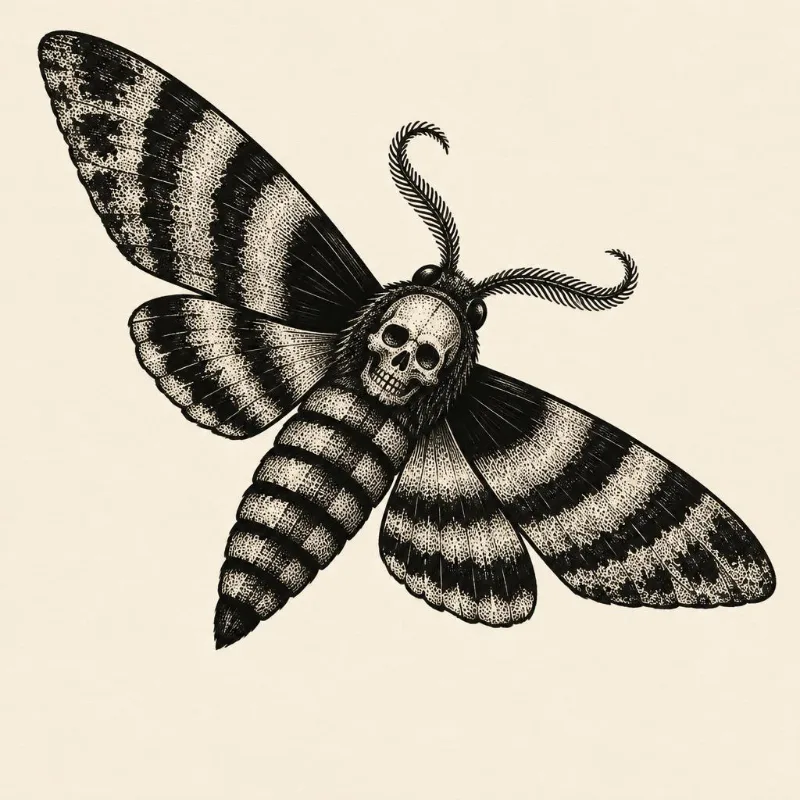
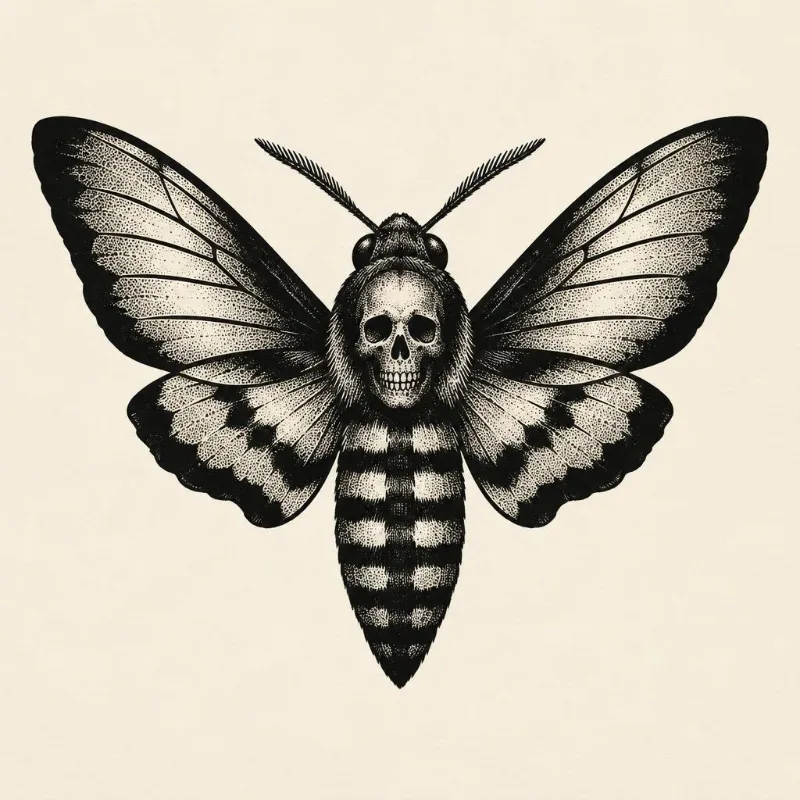
Landing: proceso de polilla con la de Marc como referencia (alas finas), elegido el concepto y en vertical en el antebrazo

diff --git a/es/index.html b/es/index.html
@@ -309,7 +309,7 @@ footer .brand img { width: 3rem; height: 3rem; }
   <blockquote>“Una polilla con una calavera.” Te pasas la tarde bocetando, tres versiones por DM… <span>y ninguna hora cobrada.</span></blockquote>
   <p style="color: var(--dim); max-width: 36rem">Inkdraft se encarga de la parte que no se paga: la idea y el primer boceto. El tiempo que ahorras vuelve a la máquina.</p>
   </div>
-  <div class="dm" role="img" aria-label="Conversación por mensaje directo: el tatuador manda tres bocetos, luego un cuarto, y la clienta sigue sin decidirse"><div class="dm-head"><span class="dm-av">L</span><div>Laura<small>Mensaje directo</small></div></div><div class="dm-rounds"><div class="r"><span class="t">Martes · 18:02</span><div class="b in">¡Hola! Quiero una polilla con una calavera, en el antebrazo.</div><div class="b out sk"><span class="sk-t">Te paso tres opciones:</span><div class="sk-row"><figure><img src="/img/pol-concepto-2.webp" alt="" width="480" height="480"><figcaption>v1</figcaption></figure><figure><img src="/img/pol-concepto-3.webp" alt="" width="480" height="480"><figcaption>v2</figcaption></figure><figure><img src="/img/pol-concepto-4.webp" alt="" width="480" height="480"><figcaption>v3</figcaption></figure></div></div><div class="b in">Me gusta la v2… ¿pero y si la calavera estuviera en el cuerpo de la polilla?</div></div><div class="r"><span class="t">Jueves · 22:15</span><div class="b out sk sk1"><span class="sk-t">¿Así?</span><figure><img src="/img/pol-concepto-1.webp" alt="" width="480" height="480"><figcaption>v4</figcaption></figure></div><div class="b in">Mmm, casi. Lo pienso y te digo.</div><span class="dm-seen">Visto · 23:47</span></div></div></div>
+  <div class="dm" role="img" aria-label="Conversación por mensaje directo: el tatuador manda tres bocetos, luego un cuarto, y la clienta sigue sin decidirse"><div class="dm-head"><span class="dm-av">L</span><div>Laura<small>Mensaje directo</small></div></div><div class="dm-rounds"><div class="r"><span class="t">Martes · 18:02</span><div class="b in">¡Hola! Quiero una polilla con una calavera, en el antebrazo.</div><div class="b out sk"><span class="sk-t">Te paso tres opciones:</span><div class="sk-row"><figure><img src="/img/pol-concepto-2.webp" alt="" width="480" height="480"><figcaption>v1</figcaption></figure><figure><img src="/img/pol-concepto-3.webp" alt="" width="480" height="480"><figcaption>v2</figcaption></figure><figure><img src="/img/pol-concepto-4.webp" alt="" width="480" height="480"><figcaption>v3</figcaption></figure></div></div><div class="b in">Me gusta la v2… ¿pero sin el sol, solo la polilla?</div></div><div class="r"><span class="t">Jueves · 22:15</span><div class="b out sk sk1"><span class="sk-t">¿Así?</span><figure><img src="/img/pol-concepto-1.webp" alt="" width="480" height="480"><figcaption>v4</figcaption></figure></div><div class="b in">Mmm, casi. Lo pienso y te digo.</div><span class="dm-seen">Visto · 23:47</span></div></div></div>
 </div></section>
 
 <section><div class="wrap">
@@ -318,9 +318,9 @@ footer .brand img { width: 3rem; height: 3rem; }
     <li><span class="n">1</span><div class="st"><span class="label">Paso 1 · Encargo</span><h3>Cuéntale el encargo</h3><p>Escríbelo como te lo dice el cliente: tema, zona y tamaño. Si trae fotos de referencia, súbelas: Inkdraft las lee como gusto, nunca las copia.</p></div>
       <div class="plate"><div class="ticket"><p class="q">“polilla con calavera”</p><dl><dt>Zona</dt><dd>Antebrazo</dd><dt>Tamaño</dt><dd>15 cm</dd><dt>Estilo</dt><dd>Blackwork</dd></dl></div><small>Tal cual lo escribió el tatuador.</small></div></li>
     <li><span class="n">2</span><div class="st"><span class="label">Paso 2 · Conceptos</span><h3>Elige viendo</h3><p>Cuatro conceptos distintos, cada uno con su dibujo. Eliges con los ojos, no leyendo descripciones. ¿Ninguno te convence? Pide otra tanda.</p></div>
-      <div class="plate"><div class="g g4"><figure class="pick"><div class="pp"><img src="/img/pol-concepto-1.webp" alt="Esfinge calavera con las alas abiertas y una calavera en el tórax" width="480" height="480" loading="lazy"></div><figcaption>Polilla calavera</figcaption></figure><figure><div class="pp"><img src="/img/pol-concepto-2.webp" alt="Calavera con una rosa que sale de la órbita y una polilla en el pómulo" width="480" height="480" loading="lazy"></div><figcaption>Calavera, rosa y polilla</figcaption></figure><figure><div class="pp"><img src="/img/pol-concepto-3.webp" alt="Polilla de alas negras con una calavera en negativo" width="480" height="480" loading="lazy"></div><figcaption>Calavera en negativo</figcaption></figure><figure><div class="pp"><img src="/img/pol-concepto-4.webp" alt="Calavera abierta como un capullo de la que sale una polilla" width="480" height="480" loading="lazy"></div><figcaption>Calavera crisálida</figcaption></figure></div></div></li>
+      <div class="plate"><div class="g g4"><figure class="pick"><div class="pp"><img src="/img/pol-concepto-1.webp" alt="Esfinge de la calavera de frente, con la calavera en el tórax y las alas con borde negro" width="480" height="480" loading="lazy"></div><figcaption>Esfinge de la calavera</figcaption></figure><figure><div class="pp"><img src="/img/pol-concepto-2.webp" alt="La esfinge posada sobre una vela encendida que gotea" width="480" height="480" loading="lazy"></div><figcaption>Polilla y vela</figcaption></figure><figure><div class="pp"><img src="/img/pol-concepto-3.webp" alt="La esfinge sobre un eclipse negro con corona de rayos" width="480" height="480" loading="lazy"></div><figcaption>Polilla de luna eclipse</figcaption></figure><figure><div class="pp"><img src="/img/pol-concepto-4.webp" alt="La esfinge con las alas hechas de cristales de cuarzo" width="480" height="480" loading="lazy"></div><figcaption>Alas de cristal</figcaption></figure></div></div></li>
     <li><span class="n">3</span><div class="st"><span class="label">Paso 3 · Variaciones</span><h3>Afínalo</h3><p>Tres variaciones del elegido: cercana, media y atrevida. Para corregir un detalle o probar otro ángulo.</p></div>
-      <div class="plate"><div class="g g3"><figure><div class="pp"><img src="/img/pol-var-cercana.webp" alt="Variación cercana: la esfinge algo girada, con las alas abiertas" width="480" height="480" loading="lazy"></div><figcaption>Cercana</figcaption></figure><figure class="pick"><div class="pp"><img src="/img/pol-var-media.webp" alt="Variación media: la esfinge en diagonal, siguiendo el antebrazo" width="480" height="480" loading="lazy"></div><figcaption>Media</figcaption></figure><figure><div class="pp"><img src="/img/pol-var-atrevida.webp" alt="Variación atrevida: la esfinge girada, con el abdomen curvado" width="480" height="480" loading="lazy"></div><figcaption>Atrevida</figcaption></figure></div></div></li>
+      <div class="plate"><div class="g g3"><figure><div class="pp"><img src="/img/pol-var-cercana.webp" alt="Variación cercana: la esfinge girada, con un ala más abierta" width="480" height="480" loading="lazy"></div><figcaption>Cercana</figcaption></figure><figure><div class="pp"><img src="/img/pol-var-media.webp" alt="Variación media: la esfinge en diagonal, con el abdomen curvado" width="480" height="480" loading="lazy"></div><figcaption>Media</figcaption></figure><figure><div class="pp"><img src="/img/pol-var-atrevida.webp" alt="Variación atrevida: la esfinge de perfil, en diagonal" width="480" height="480" loading="lazy"></div><figcaption>Atrevida</figcaption></figure></div></div></li>
     <li><span class="n">4</span><div class="st"><span class="label">Paso 4 · Stencil</span><h3>Llévate el stencil</h3><p>Línea limpia de un solo grosor, fiel al dibujo, a 2048 px. Ábrelo en Procreate y pon el sombreado a tu manera.</p></div>
       <div class="plate"><div class="g g2"><figure><div class="pp"><img src="/img/pol-diseno.webp" alt="El diseño elegido, sombreado" width="800" height="800" loading="lazy"></div><figcaption>Diseño</figcaption></figure><figure><div class="pp"><img src="/img/pol-stencil.webp" alt="Stencil de la polilla calavera: solo contornos, un grosor" width="800" height="800" loading="lazy"></div><figcaption>Stencil</figcaption></figure></div></div></li>
     <li><span class="n">5</span><div class="st"><span class="label">Paso 5 · En la piel</span><h3>Enséñaselo al cliente</h3><p>Sube una foto de la zona, coloca el diseño con los dedos e Inkdraft lo vuelve realista. El cliente lo ve antes de la cita.</p></div>

diff --git a/index.html b/index.html
@@ -314,7 +314,7 @@ footer .brand img { width: 3rem; height: 3rem; }
   <blockquote>“A moth with a skull.” You spend the afternoon sketching, three versions over DM… <span>and not one hour paid.</span></blockquote>
   <p style="color: var(--dim); max-width: 36rem">Inkdraft handles the part nobody pays for: the idea and the first sketch. The time you save goes back to the machine.</p>
   </div>
-  <div class="dm" role="img" aria-label="Direct message thread: the artist sends three sketches, then a fourth, and the client still can't decide"><div class="dm-head"><span class="dm-av">L</span><div>Laura<small>Direct message</small></div></div><div class="dm-rounds"><div class="r"><span class="t">Tuesday · 6:02 pm</span><div class="b in">Hi! I want a moth with a skull, on my forearm.</div><div class="b out sk"><span class="sk-t">Here are three options:</span><div class="sk-row"><figure><img src="/img/pol-concepto-2.webp" alt="" width="480" height="480"><figcaption>v1</figcaption></figure><figure><img src="/img/pol-concepto-3.webp" alt="" width="480" height="480"><figcaption>v2</figcaption></figure><figure><img src="/img/pol-concepto-4.webp" alt="" width="480" height="480"><figcaption>v3</figcaption></figure></div></div><div class="b in">I like v2… but what if the skull was on the moth’s body?</div></div><div class="r"><span class="t">Thursday · 10:15 pm</span><div class="b out sk sk1"><span class="sk-t">Like this?</span><figure><img src="/img/pol-concepto-1.webp" alt="" width="480" height="480"><figcaption>v4</figcaption></figure></div><div class="b in">Hmm, almost. Let me think about it.</div><span class="dm-seen">Seen · 11:47 pm</span></div></div></div>
+  <div class="dm" role="img" aria-label="Direct message thread: the artist sends three sketches, then a fourth, and the client still can't decide"><div class="dm-head"><span class="dm-av">L</span><div>Laura<small>Direct message</small></div></div><div class="dm-rounds"><div class="r"><span class="t">Tuesday · 6:02 pm</span><div class="b in">Hi! I want a moth with a skull, on my forearm.</div><div class="b out sk"><span class="sk-t">Here are three options:</span><div class="sk-row"><figure><img src="/img/pol-concepto-2.webp" alt="" width="480" height="480"><figcaption>v1</figcaption></figure><figure><img src="/img/pol-concepto-3.webp" alt="" width="480" height="480"><figcaption>v2</figcaption></figure><figure><img src="/img/pol-concepto-4.webp" alt="" width="480" height="480"><figcaption>v3</figcaption></figure></div></div><div class="b in">I like v2… but without the sun, just the moth?</div></div><div class="r"><span class="t">Thursday · 10:15 pm</span><div class="b out sk sk1"><span class="sk-t">Like this?</span><figure><img src="/img/pol-concepto-1.webp" alt="" width="480" height="480"><figcaption>v4</figcaption></figure></div><div class="b in">Hmm, almost. Let me think about it.</div><span class="dm-seen">Seen · 11:47 pm</span></div></div></div>
 </div></section>
 
 <section><div class="wrap">
@@ -323,9 +323,9 @@ footer .brand img { width: 3rem; height: 3rem; }
     <li><span class="n">1</span><div class="st"><span class="label">Step 1 · Brief</span><h3>Describe the request</h3><p>Write it the way your client said it: subject, placement and size. If they sent reference photos, add them: Inkdraft reads them as taste and never copies them.</p></div>
       <div class="plate"><div class="ticket"><p class="q">“moth with skull”</p><dl><dt>Placement</dt><dd>Forearm</dd><dt>Size</dt><dd>15 cm</dd><dt>Style</dt><dd>Blackwork</dd></dl></div><small>Typed in a hurry, just like a real brief.</small></div></li>
     <li><span class="n">2</span><div class="st"><span class="label">Step 2 · Concepts</span><h3>Pick by eye</h3><p>Four different concepts, each one drawn. You choose by looking, not by reading descriptions. None of them right? Ask for another round.</p></div>
-      <div class="plate"><div class="g g4"><figure class="pick"><div class="pp"><img src="/img/pol-concepto-1.webp" alt="Death's-head hawkmoth with open wings and a skull on its thorax" width="480" height="480" loading="lazy"></div><figcaption>Skull moth</figcaption></figure><figure><div class="pp"><img src="/img/pol-concepto-2.webp" alt="Skull with a rose growing from the eye socket and a moth on the cheekbone" width="480" height="480" loading="lazy"></div><figcaption>Skull, rose and moth</figcaption></figure><figure><div class="pp"><img src="/img/pol-concepto-3.webp" alt="Moth with solid black wings holding a skull in negative" width="480" height="480" loading="lazy"></div><figcaption>Negative skull</figcaption></figure><figure><div class="pp"><img src="/img/pol-concepto-4.webp" alt="Skull opened like a cocoon, with a moth coming out" width="480" height="480" loading="lazy"></div><figcaption>Chrysalis skull</figcaption></figure></div></div></li>
+      <div class="plate"><div class="g g4"><figure class="pick"><div class="pp"><img src="/img/pol-concepto-1.webp" alt="Death's-head hawkmoth seen from the front, a skull on its thorax and black-edged wings" width="480" height="480" loading="lazy"></div><figcaption>Death's-head hawkmoth</figcaption></figure><figure><div class="pp"><img src="/img/pol-concepto-2.webp" alt="The hawkmoth resting on a lit, dripping candle" width="480" height="480" loading="lazy"></div><figcaption>Moth and candle</figcaption></figure><figure><div class="pp"><img src="/img/pol-concepto-3.webp" alt="The hawkmoth over a black eclipse with a crown of rays" width="480" height="480" loading="lazy"></div><figcaption>Eclipse moth</figcaption></figure><figure><div class="pp"><img src="/img/pol-concepto-4.webp" alt="The hawkmoth with wings made of quartz crystals" width="480" height="480" loading="lazy"></div><figcaption>Crystal wings</figcaption></figure></div></div></li>
     <li><span class="n">3</span><div class="st"><span class="label">Step 3 · Variations</span><h3>Refine it</h3><p>Three variations of the one you picked: close, medium and bold. To fix a detail or try another angle.</p></div>
-      <div class="plate"><div class="g g3"><figure><div class="pp"><img src="/img/pol-var-cercana.webp" alt="Close variation: the hawkmoth slightly turned, wings open" width="480" height="480" loading="lazy"></div><figcaption>Close</figcaption></figure><figure class="pick"><div class="pp"><img src="/img/pol-var-media.webp" alt="Medium variation: the hawkmoth on a diagonal, following the forearm" width="480" height="480" loading="lazy"></div><figcaption>Medium</figcaption></figure><figure><div class="pp"><img src="/img/pol-var-atrevida.webp" alt="Bold variation: the hawkmoth turned, its abdomen curved" width="480" height="480" loading="lazy"></div><figcaption>Bold</figcaption></figure></div></div></li>
+      <div class="plate"><div class="g g3"><figure><div class="pp"><img src="/img/pol-var-cercana.webp" alt="Close variation: the hawkmoth turned, one wing more open" width="480" height="480" loading="lazy"></div><figcaption>Close</figcaption></figure><figure><div class="pp"><img src="/img/pol-var-media.webp" alt="Medium variation: the hawkmoth on a diagonal, its abdomen curved" width="480" height="480" loading="lazy"></div><figcaption>Medium</figcaption></figure><figure><div class="pp"><img src="/img/pol-var-atrevida.webp" alt="Bold variation: the hawkmoth in profile, on a diagonal" width="480" height="480" loading="lazy"></div><figcaption>Bold</figcaption></figure></div></div></li>
     <li><span class="n">4</span><div class="st"><span class="label">Step 4 · Stencil</span><h3>Take the stencil</h3><p>Clean, single-weight linework, true to the drawing, at 2048 px. Open it in Procreate and add the shading your way.</p></div>
       <div class="plate"><div class="g g2"><figure><div class="pp"><img src="/img/pol-diseno.webp" alt="The chosen design, shaded" width="800" height="800" loading="lazy"></div><figcaption>Design</figcaption></figure><figure><div class="pp"><img src="/img/pol-stencil.webp" alt="Stencil of the skull moth: outlines only, one line weight" width="800" height="800" loading="lazy"></div><figcaption>Stencil</figcaption></figure></div></div></li>
     <li><span class="n">5</span><div class="st"><span class="label">Step 5 · On skin</span><h3>Show your client</h3><p>Upload a photo of the placement, position the design with your fingers and Inkdraft makes it look real. Your client sees it before the appointment.</p></div>

diff --git a/CLAUDE.md b/CLAUDE.md
@@ -47,5 +47,5 @@ Una sola dirección pública: `hello@inkdraft.tattoo`. Los dos emails del formul
 - Imágenes generadas en producción con la cuenta de Marc (`/api/concepts`, `/api/references`, `/api/stencil`), sin retocar, pasadas a webp de 800 px. De reserva quedaron cabeza de tigre (Tradicional; su stencil perdía las rayas) y búho con joya (Neotradicional).
 - El formulario de fundador sigue con Blackwork / Fineline / Otro (ver arriba para añadir estilos).
 - Ejemplos elegidos por Marc de su biblioteca (23 oct): Blackwork `bw-1` polilla con calavera (antebrazo 15 cm) y `bw-2` corazón anatómico con bisturí (brazo 18 cm); Tradicional `trad-2` barco en medallón con ancla (brazo 15 cm). Stencils hechos con `/api/stencil`. `cri-*` borradas; las `esc-*` siguen en "Cómo funciona".
-- Cómo funciona y el problema (mensaje con Laura) cuentan un encargo hecho de punta a punta en la app (Marc, 23 oct): "polilla con calavera", antebrazo 15 cm, Blackwork. Se hicieron 3 tandas (como "Otra tanda") y se eligió como lo haría Marc: la primera tanda entera en `pol-concepto-1..4`, elegido el 1 ("Polilla calavera", esfinge con bandas); variaciones `pol-var-*`, elegida la media (en diagonal); `pol-diseno.webp` + `pol-stencil.webp` (stencil de la media) y `pol-piel.webp`: la media colocada grande y en diagonal sobre el antebrazo limpio original (Figma "Inkdraft · landing (antebrazo IA)", nodo 1:2) y pasada por `/api/skin`. En Laura, v1-v3 son los conceptos 2, 3 y 4, y v4 el 1. Una primera versión con una sola tanda quedó floja (concepto genérico y variación simplificada): para la landing, siempre varias tandas y elegir. Material en `~/Claude/inkdraft-banco-estilos/landing-2026-10-23/proceso-polilla-3-tandas/` (el antebrazo limpio está en `.../proceso-polilla/antebrazo.bin`, PNG).
+- Cómo funciona y el problema (mensaje con Laura) cuentan un encargo hecho de punta a punta en la app (Marc, 23 oct): "polilla con calavera", antebrazo 15 cm, Blackwork, con la polilla favorita de Marc de su biblioteca como referencia del cliente (la versión anterior salía con alas "a cebra" y no le gustaba). 3 tandas; en la web, la segunda entera (`pol-concepto-1..4`), elegido el 1 ("Esfinge de la calavera", fina, simétrica). Variaciones `pol-var-*` sin ninguna marcada: todas giraban la polilla en diagonal y Marc la quiere vertical en el brazo, así que el paso 4 y la piel usan el concepto (`pol-diseno.webp` + `pol-stencil.webp`). `pol-piel.webp`: el concepto en vertical, grande, sobre el antebrazo limpio original (Figma "Inkdraft · landing (antebrazo IA)", nodo 1:2) y pasado por `/api/skin`. Laura: v1-v3 son los conceptos 2, 3 y 4; pide la v2 (eclipse) sin el sol y recibe el 1. Para la landing, siempre varias tandas y elegir. Material en `~/Claude/inkdraft-banco-estilos/landing-2026-10-23/proceso-polilla-con-referencia/` (antebrazo limpio en `.../proceso-polilla/antebrazo.bin`, PNG).
 - Textos de cada estilo acortados a dos líneas (Marc, 23 oct), empezando por el término de búsqueda ("Tatuaje blackwork:", "Tatuaje tradicional moderno:"…).
